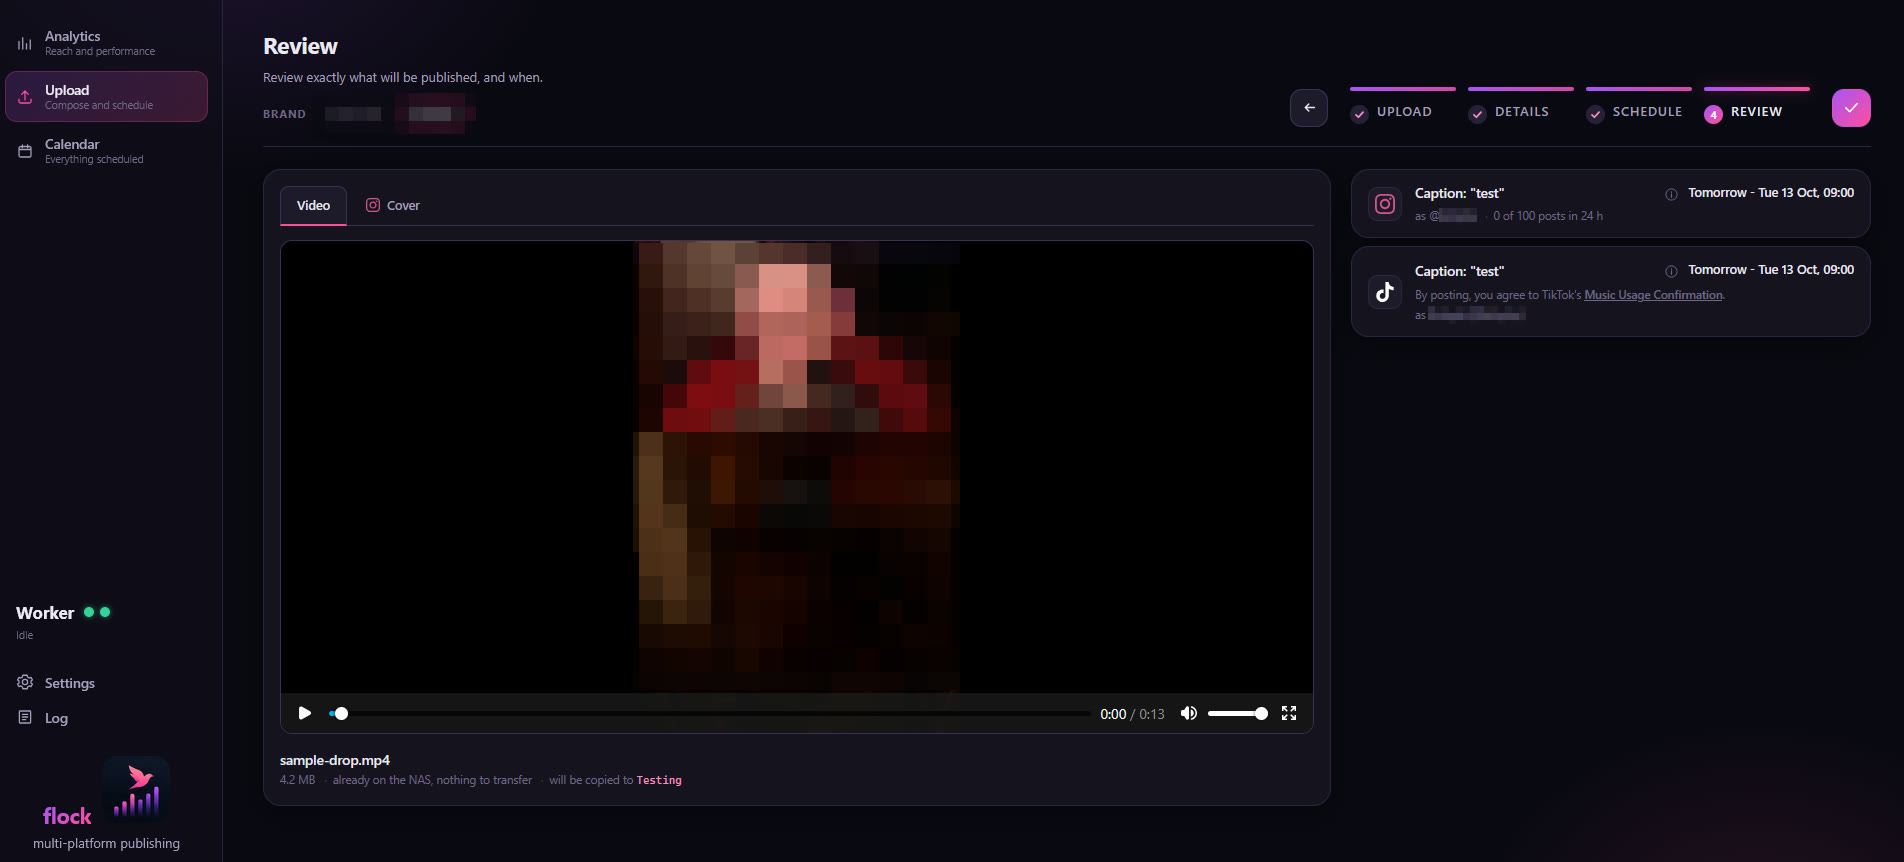
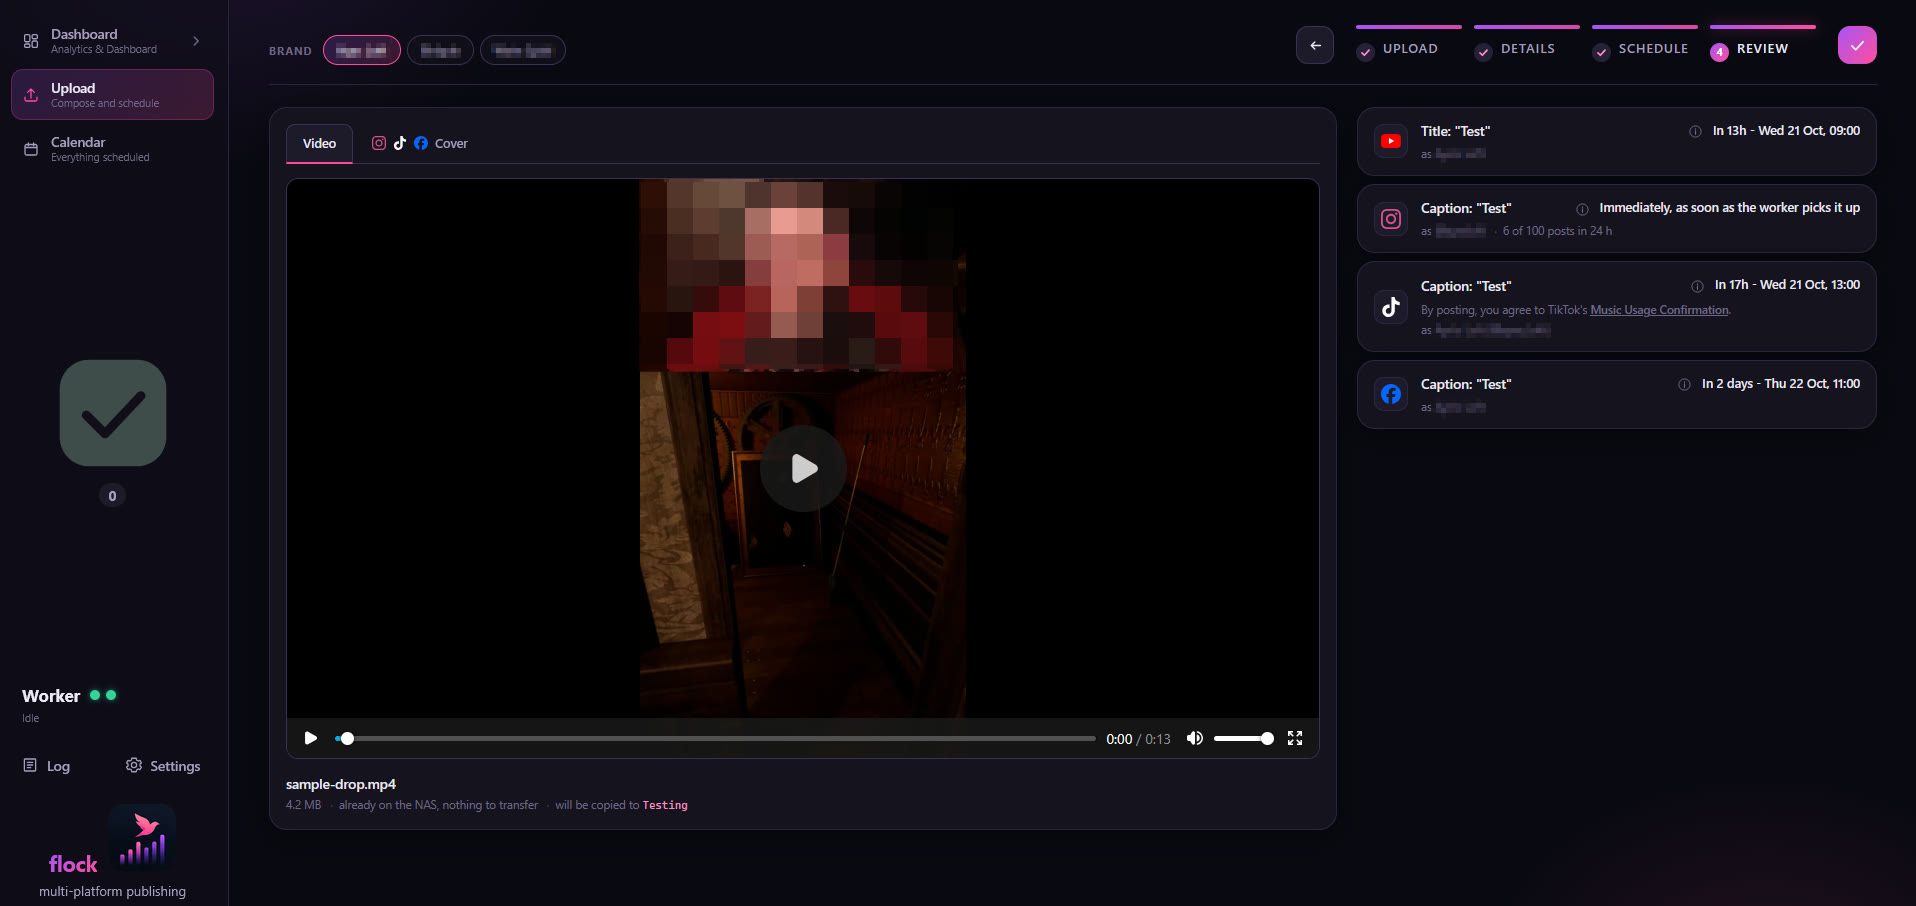
Retake the website's screenshots, with Details for every platform
The old shots were from 0.11.9 and still showed the Analytics menu,
page titles and the sidebar as it was. The new ones show the app as it
is, and Details once per platform in a 2x2 grid in alphabetical order,
so no platform is shown as the main one. Names are pixelated.

diff --git a/site/index.html b/site/index.html
@@ -116,34 +116,54 @@
     <p class="sub">An upload is four steps: Upload, Details, Schedule, Review.</p>
 
     <figure class="shot">
-      <img src="img/upload.jpg" alt="The Upload step: the video box on the left, the file lists on the right">
-      <figcaption>Upload: pick the video. Drop a file on the box, or drag one from the watch folders, or from the
+      <img src="img/upload.jpg" alt="The Upload step: the video boxes on the left, the watch folders on the right">
+      <figcaption>Upload: pick the video. Drop a file on a box, or drag one from the watch folders, or from the
       project's own folder when the upload came from one; right-click plays it first. One video goes to every
-      platform unless a platform is given a cut of its own with the <em>Own file</em> buttons.</figcaption>
+      platform unless a platform is given a cut of its own with the <em>Own file</em> buttons, as Instagram is
+      here.</figcaption>
     </figure>
 
-    <figure class="shot">
-      <img src="img/details.jpg" alt="The Details step composing TikTok, with the Post to TikTok box on the right">
-      <figcaption>Details: the text for the platform being composed, switched with the icons at the top. With
-      TikTok selected, the <em>Post to TikTok</em> box names the account, read afresh from TikTok, asks who can
-      view the video with nothing preselected, leaves comments, Duet and Stitch off until ticked, holds the
-      <em>Content Disclosure Setting</em>, and carries TikTok's declaration line. Continue waits until the box is
-      complete.</figcaption>
-    </figure>
+    <p class="shots-intro">Details: each platform is written for on its own, switched with the icons at the top;
+    a mark on an icon says whether that platform's part is still missing something.</p>
+    <div class="shots">
+      <figure class="shot">
+        <a href="img/details-facebook.jpg"><img src="img/details-facebook.jpg" alt="The Details step composing Facebook: the caption, and the cover box on the right"></a>
+        <figcaption>Facebook: the caption of a reel published publicly on the Page, and the cover image, shared
+        with Instagram or one of its own.</figcaption>
+      </figure>
+      <figure class="shot">
+        <a href="img/details-instagram.jpg"><img src="img/details-instagram.jpg" alt="The Details step composing Instagram: the caption, and the boxes for this reel on the right"></a>
+        <figcaption>Instagram: the caption of the reel, and its cover image.</figcaption>
+      </figure>
+      <figure class="shot">
+        <a href="img/details-tiktok.jpg"><img src="img/details-tiktok.jpg" alt="The Details step composing TikTok, with the Post to TikTok and Cover Time boxes on the right"></a>
+        <figcaption>TikTok: the caption, with what TikTok shows before "more" marked. The <em>Post to TikTok</em>
+        box names the account, read afresh from TikTok, asks who can view the video with nothing preselected,
+        leaves comments, Duet and Stitch off until ticked, holds the <em>Content Disclosure Setting</em> and
+        carries TikTok's declaration; Continue waits until it is complete. <em>Cover Time</em> places the cover
+        image at the beginning or the end of the video.</figcaption>
+      </figure>
+      <figure class="shot">
+        <a href="img/details-youtube.jpg"><img src="img/details-youtube.jpg" alt="The Details step composing YouTube: title, description and tags, and the playlists box on the right"></a>
+        <figcaption>YouTube: the title, the description, the tags in sets, and the channel's playlists to add the
+        video to.</figcaption>
+      </figure>
+    </div>
 
     <figure class="shot">
       <img src="img/schedule.jpg" alt="The Schedule step: a calendar with one card per platform">
-      <figcaption>Schedule: one card per platform on a calendar of the coming days, starting today, dragged to its
-      day and hour, typed exactly, taken from a saved pattern, or released immediately.</figcaption>
+      <figcaption>Schedule: one card per platform on a calendar of the coming days, starting today. Drag a card
+      to its day and hour and pick the minutes, type the time exactly, take it from a saved pattern, or release
+      it immediately, as Instagram is here.</figcaption>
     </figure>
 
     <figure class="shot">
       <img src="img/review.jpg" alt="The Review step: the video playing beside what each platform will receive">
       <figcaption>Review: the video plays beside what each platform will receive and when, the account each post
-      goes out as, and TikTok's declaration, before anything is uploaded; with TikTok in the upload, confirming
-      waits until the video has been shown. Confirming stores the video and queues the releases; the worker
-      takes it from there, and a TikTok post may take a few minutes to appear on the profile after it is
-      posted.</figcaption>
+      goes out as, and TikTok's declaration, before anything is uploaded; a tab shows the cover image. With TikTok
+      in the upload, confirming waits until the video has been shown. Confirming stores the video and queues the
+      releases; the worker takes it from there, and a TikTok post may take a few minutes to appear on the
+      profile after it is posted.</figcaption>
     </figure>
   </section>
 

diff --git a/site/style.css b/site/style.css
@@ -90,6 +90,11 @@ section > p { color: var(--muted); }
 figure.shot { margin: 0 0 2rem; }
 figure.shot img { width: 100%; height: auto; display: block; border-radius: var(--radius); border: 1px solid var(--border-strong); }
 figure.shot figcaption { color: var(--muted); font-size: 0.92rem; margin-top: 0.6rem; }
+/* One shot per platform, side by side and all the same size. */
+.shots { display: grid; grid-template-columns: repeat(2, minmax(0, 1fr)); gap: 1.5rem; margin: 0 0 2rem; }
+.shots figure.shot { margin: 0; }
+.shots figure.shot a { display: block; cursor: zoom-in; }
+.shots-intro { color: var(--muted); margin: 0 0 1rem; }
 
 .split { display: grid; grid-template-columns: 1.3fr 1fr; gap: 2rem; align-items: start; }
 .split img { width: 100%; border-radius: var(--radius); border: 1px solid var(--border-strong); }
@@ -140,4 +145,5 @@ footer.bottom a:hover { color: var(--text); }
   .hero { grid-template-columns: 1fr; }
   .hero .icon { width: 120px; height: 120px; border-radius: 26px; }
   .split { grid-template-columns: 1fr; }
+  .shots { grid-template-columns: 1fr; }
 }
